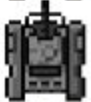
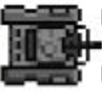
change Tank move

diff --git a/Main_game.py b/Main_game.py
@@ -1,104 +1,70 @@
-#Import thư viện
 import pygame
-import random
 import math
 
-#Khởi tạo pygame
+# Khởi tạo pygame
 pygame.init()
 
-#Giao diện màn hình
-WIDTH, HEIGHT = 800, 600
+# Cài đặt màn hình
+WIDTH, HEIGHT = 600, 600
 screen = pygame.display.set_mode((WIDTH, HEIGHT))
-pygame.display.set_caption("Tank Battle AZ")
-clock = pygame.time.Clock()
+pygame.display.set_caption("Xe tăng di chuyển theo hướng")
 
-#Load hình ảnh, nhớ chỉnh sửa đường dẫn tới hình ảnh của bạn
-tank_img = pygame.image.load("Picture\Tank_tries.png")
-enemy_img = pygame.image.load("Picture\enemy_tries.png")
-bullet_img = pygame.image.load("Picture\Bullet.jpg")
-background_img = pygame.image.load(r"Picture\background.jpg")
+# Màu sắc
+WHITE = (255, 255, 255)
 
-# Lớp xe tăng
-class Tank:
-    def __init__(self, x, y):
-        self.x = x
-        self.y = y
-        self.angle = 0
-        self.speed = 3
-        self.bullets = []
-    
-    def move(self, keys):
-        if keys[pygame.K_w]:
-            tank_img = pygame.transform.rotate(original_tank, 0)    # Hướng lên
-        if keys[pygame.K_s]:
-            y += speed
-            tank_img = pygame.transform.rotate(original_tank, 180)  # Hướng xuống
-        if keys[pygame.K_a]:
-            self.angle += 5
-        if keys[pygame.K_d]:
-            self.angle -= 5
-    
-    def shoot(self):
-        bullet = Bullet(self.x, self.y, self.angle)
-        self.bullets.append(bullet)
-    
-    def draw(self, screen):
-        rotated_tank = pygame.transform.rotate(tank_img, self.angle)
-        rect = rotated_tank.get_rect(center=(self.x, self.y))
-        screen.blit(rotated_tank, rect.topleft)
-        for bullet in self.bullets:
-            bullet.draw(screen)
+# Tải hình ảnh xe tăng (thay đổi đường dẫn tới file ảnh của bạn)
+tank_image = pygame.image.load("AZ_tank_by_gamer\Picture\Tank_tries.png").convert_alpha()
+tank_size = 50
+tank_image = pygame.transform.scale(tank_image, (tank_size, tank_size))  # Thay đổi kích thước nếu cần
 
-# Lớp đạn
-class Bullet:
-    def __init__(self, x, y, angle):
-        self.x = x
-        self.y = y
-        self.angle = angle
-        self.speed = 7
-    
-    def move(self):
-        self.x += self.speed * math.cos(math.radians(self.angle))
-        self.y -= self.speed * math.sin(math.radians(self.angle))
-    
-    def draw(self, screen):
-        screen.blit(bullet_img, (self.x, self.y))
-
-# Lớp xe tăng địch
-class EnemyTank:
-    def __init__(self, x, y):
-        self.x = x
-        self.y = y
-    
-    def draw(self, screen):
-        screen.blit(enemy_img, (self.x, self.y))
-
-# Khởi tạo xe tăng
-player_tank = Tank(WIDTH // 2, HEIGHT // 2)
-enemies = [EnemyTank(random.randint(50, WIDTH - 50), random.randint(50, HEIGHT - 50)) for _ in range(5)]
+# Xe tăng
+tank_x, tank_y = WIDTH // 2, HEIGHT // 2
+angle = 0  # Góc quay của xe (tính theo độ)
+speed = 5
+turn_speed = 5  # Tốc độ xoay
 
 # Vòng lặp game
 running = True
 while running:
-    screen.fill((50, 50, 50))
-    keys = pygame.key.get_pressed()
+    pygame.time.delay(30)
     
+    # Xử lý sự kiện
     for event in pygame.event.get():
         if event.type == pygame.QUIT:
             running = False
-        if event.type == pygame.KEYDOWN:
-            if event.key == pygame.K_SPACE:
-                player_tank.shoot()
+
+    # Lấy phím bấm
+    keys = pygame.key.get_pressed()
+
+    # Xoay trái/phải
+    if keys[pygame.K_a]:
+        angle += turn_speed  # Xoay ngược chiều kim đồng hồ
+    if keys[pygame.K_d]:
+        angle -= turn_speed  # Xoay theo chiều kim đồng hồ
+
+    # Tính toán hướng di chuyển
+    radian_angle = math.radians(angle)  # Chuyển đổi độ thành radian
+    if keys[pygame.K_w]:  # Tiến lên
+        tank_x += speed * math.cos(radian_angle)
+        tank_y -= speed * math.sin(radian_angle)
+    if keys[pygame.K_s]:  # Lùi lại
+        tank_x -= speed * math.cos(radian_angle)
+        tank_y += speed * math.sin(radian_angle)
+
+    # Giới hạn xe tăng trong màn hình 
+    tank_x = max(tank_size // 2, min(WIDTH - tank_size // 2, tank_x))
+    tank_y = max(tank_size // 2, min(HEIGHT - tank_size // 2, tank_y))
+
+    # Vẽ lại màn hình
+    screen.fill(WHITE)
+
+    # Xoay và vẽ xe tăng
+    rotated_tank = pygame.transform.rotate(tank_image, angle)
+    rect = rotated_tank.get_rect(center=(tank_x, tank_y))
+
+    # Hiển thị xe tăng
+    screen.blit(rotated_tank, rect.topleft)
     
-    player_tank.move(keys)
-    for bullet in player_tank.bullets:
-        bullet.move()
-    
-    player_tank.draw(screen)
-    for enemy in enemies:
-        enemy.draw(screen)
-    
-    pygame.display.flip()
-    clock.tick(60)
+    pygame.display.update()
 
 pygame.quit()
